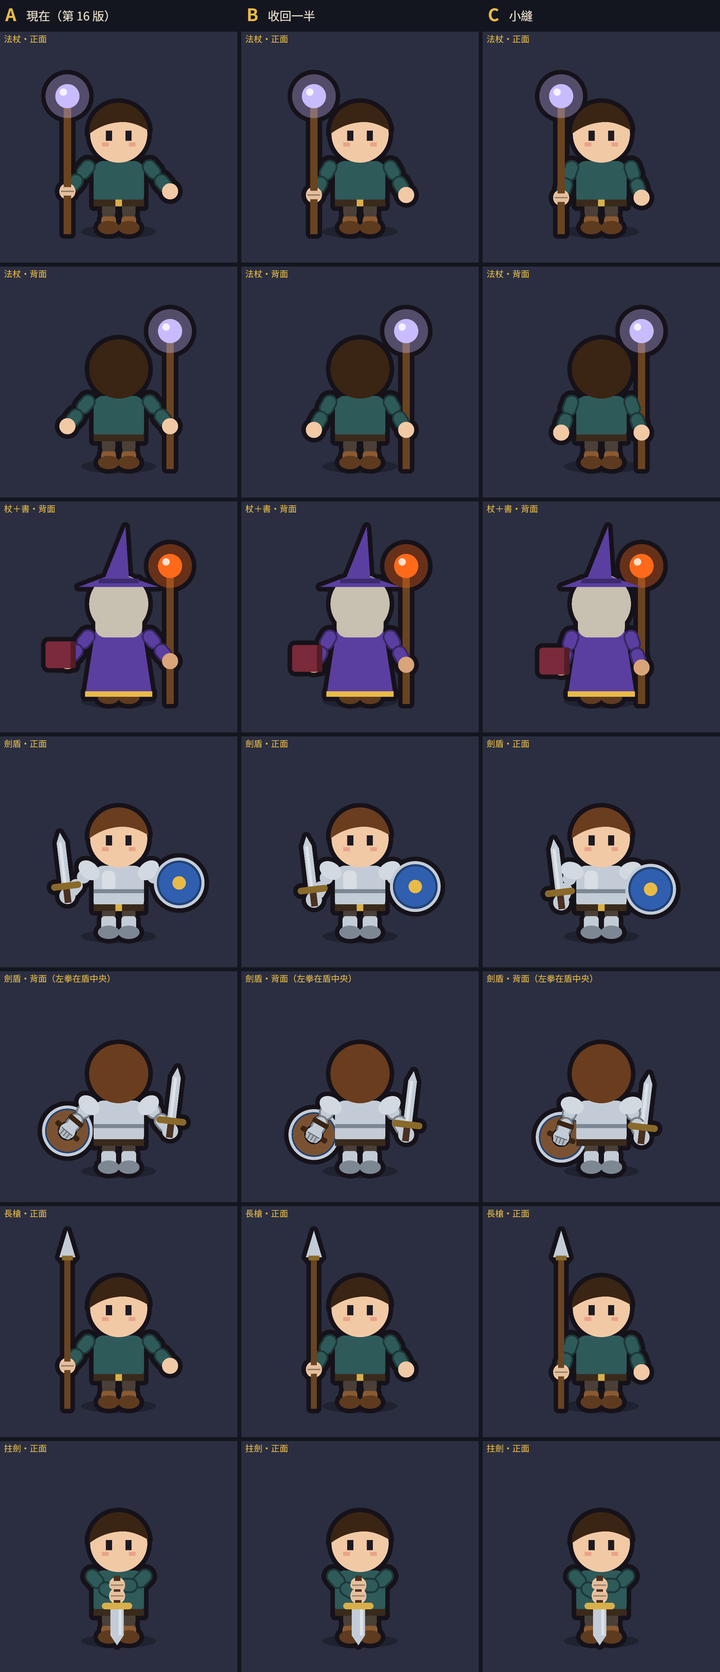
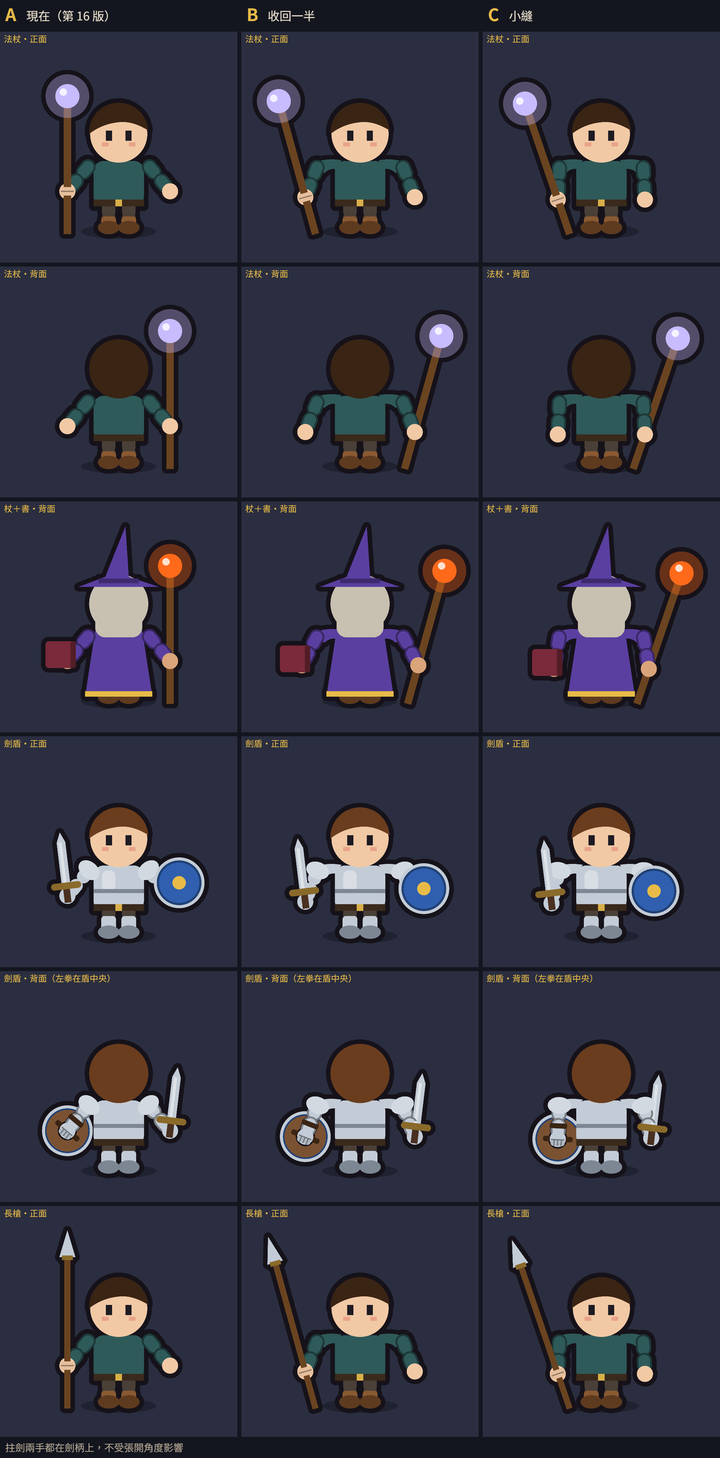
docs(art): Q v17 A review fix — compare sheet: shoulder out, gap armpit to fist
- ARM_SPREAD sets get dx/tilt/robe/hold; B/C move the shoulder out with a
  sloped shoulder cap, staff/spear tilt outward clear of the upper arm.
- Drop the plant row (identical in all columns), add a footnote instead.
- Defaults (A) unchanged: all closeups byte-identical, lockcheck 13/13.

diff --git a/docs/art/sample/qDoll.js b/docs/art/sample/qDoll.js
@@ -71,6 +71,7 @@ window.QDoll = (() => {
     const [hc] = gear.hands ? colors(gear.hands) : [look.skin, look.skin];
     const seam = (path) => { if (!SEAM || TINT || handOnly) return; ctx.strokeStyle = mix(c, "#000000", 0.38); ctx.lineWidth = 0.55; ctx.beginPath(); path(); ctx.stroke(); };
     ctx.save();
+    if (ARM_DX && !side && !handOnly && Math.abs(Math.abs(x) - SHX) < 1e-9) { const s = Math.sign(x), X = Math.abs(x); fill(ctx, sleeve, () => { ctx.moveTo(s * 5.5, -21.2); ctx.quadraticCurveTo(s * (X - 1), -22.2, s * (X + 1.9), -19.6); ctx.lineTo(s * (X - 1.9), -17.4); ctx.quadraticCurveTo(s * (X - 3.2), -18.8, s * 7.4, -18.6); ctx.closePath(); }); } /* 第 17 版：肩膀外移時，斜肩接回軀幹（縫從腋下開始） */
     rotAt(ctx, x, -20, shoulderA);
     if (!handOnly) fill(ctx, sleeve, () => rr(ctx, x - 2, -21, 4, ua + 1, 2));       // 上臂
     seam(() => ctx.roundRect(x - 2, -21, 4, ua + 1, 2));
@@ -388,17 +389,26 @@ window.QDoll = (() => {
   const UA = 5, FA = 5.5, REACH = UA + FA - 0.1;
   const rot = (a, [x, y]) => [x * Math.cos(a) - y * Math.sin(a), x * Math.sin(a) + y * Math.cos(a)];
   /* 第 15 版：OUTA＝持武器的手臂往外張開的角度（打直、不彎肘）；OH＝右肩打直張開時手的位置（正面左右對調） */
-  /* 第 17 版第 2 項（使用者：「兩隻手太開了」）：手臂往外張開的角度集中在 ARM_SPREAD 一個開關。A＝第 16 版（預設）、B＝收回一半、C＝只留一條小縫（3 倍特寫下手臂和軀幹之間 2～4px 背景色）。
-     只有比較圖（tools/arm-spread-compare.html）在載入前設 window.QDOLL_ARM_SPREAD；其他頁一律用 A，使用者選定角度後（B 批）才改預設 */
-  const ARM_SPREAD_SET = { A: 0.7, B: 0.52, C: 0.335 }; /* C：3 倍特寫量到手和腰之間 3px 背景色；角度減半（0.35）時只剩 5px、和 C 幾乎一樣，所以 B 取 A 和 C 的中間（從現在往小縫收回一半） */
-  const ARM_SPREAD = typeof window.QDOLL_ARM_SPREAD === "number" ? window.QDOLL_ARM_SPREAD : ARM_SPREAD_SET[window.QDOLL_ARM_SPREAD] ?? ARM_SPREAD_SET.A;
+  /* 第 17 版第 2 項（使用者：「兩隻手太開了」）：手臂往外張開集中在 ARM_SPREAD 一個開關：a＝手臂往外的角度、dx＝肩膀往外移多少、tilt＝法杖和長柄往外傾多少。
+     A＝第 16 版（預設）；C＝小縫：肩膀往外移、手臂打直接近直垂、和軀幹平行，從腋下到拳頭全程留 2～4px 背景色（3 倍特寫）；B＝A 和 C 的中間，縫比 C 寬。
+     肩膀外移時，肩頭用一塊同色的肩頂接回軀幹（見 arm 的 ARM_DX）；杖、柄往外傾，桿子在手臂外側、不把上臂切斷，光暈離開頭。
+     只有比較圖（tools/arm-spread-compare.html）在載入前設 window.QDOLL_ARM_SPREAD；其他頁一律用 A，使用者選定後（B 批）才改預設 */
+  const ARM_SPREAD_SET = { A: { a: 0.7, dx: 0, tilt: 0, robe: 0, hold: 0 }, B: { a: 0.375, dx: 3.93, tilt: 0.27, robe: 0.11, hold: 0 }, C: { a: 0.05, dx: 3.93, tilt: 0.33, robe: 0.11, hold: 0.18 } }; /* robe＝穿長袍時手臂多往外的角度（長袍下擺往外斜，手臂跟著長袍邊平行）；hold＝持單手武器的手多往外一點（護手不壓進軀幹） */
+  const ARM = (typeof window.QDOLL_ARM_SPREAD === "object" && window.QDOLL_ARM_SPREAD) || ARM_SPREAD_SET[window.QDOLL_ARM_SPREAD] || ARM_SPREAD_SET.A;
+  const ARM_SPREAD = ARM.a, ARM_DX = ARM.dx, ARM_TILT = ARM.tilt, SHX = 8.5 + ARM_DX;
   const OUTA = ARM_SPREAD;
   /* 第 17 版第 3 項預覽（B 批才正式改）：QDOLL_SHIELD_CENTER＝背面持盾的左拳在盾的正中央握把上；只有比較圖會設 */
   const SHIELD_CENTER = !!window.QDOLL_SHIELD_CENTER;
   function fk(x, sA, eA, len = null) { const ua = len ? len[0] : UA, fa = len ? len[1] : FA, e = [x - ua * Math.sin(sA), -20 + ua * Math.cos(sA)]; return [e[0] - fa * Math.sin(sA + eA), e[1] + fa * Math.cos(sA + eA)]; }
-  const OH = fk(8.5, -OUTA, 0), OH16 = fk(8.5, -ARM_SPREAD_SET.A, 0); /* OH16：第 16 版的手高，法杖握點照手高差補回，杖尾留在地面線（預設時差 0） */
+  const OH = fk(SHX, -OUTA, 0), OH16 = fk(8.5, -ARM_SPREAD_SET.A.a, 0); /* OH16：第 16 版的手高，法杖握點照手高差補回，杖尾留在地面線（預設時差 0） */
   /* 第 16 版（使用者：「側面的那隻手的肩膀太左上了吧」）：側面兩邊肩膀都在軀幹上緣的肩線上（x SSH，軀幹前後 ±5.4 的中間偏前），不再放在身體前緣、臉頰下面。
      SIDEA＝側面持武器的手臂往前下方伸的角度（打直）；SHD＝打直時手的位置。tailG：握點，讓柄尾最低點落在鞋底的地面線（T＝柄尾在武器座標的 y、hw＝柄半寬） */
+  const tiltG = (mg, T) => (ARM_TILT ? T - (T - mg) / Math.cos(ARM_TILT) : mg); /* 第 17 版：杖、柄往外傾時握點補回，柄尾仍在地面線（T＝柄尾在武器座標的 y） */
+  const sxOf = (gear) => (outOf(gear) ? SHX : 8.5); /* 第 17 版：張開的手臂才跟著肩膀外移 */
+  const robeX = (gear) => (ARM.robe && gear.body?.kind === "robe" ? ARM.robe : 0);
+  const holdA = (gear) => (outOf(gear) ? outOf(gear) + ARM.hold + robeX(gear) : 0); /* 持單手武器的手臂角度 */
+  const stK = (sx, k, out, gear) => { const r = armK(sx, k, out); if (k.st && robeX(gear)) r.sA += (sx > 0 ? -1 : 1) * robeX(gear); return r; }; /* 穿長袍時握杖的手臂也多往外 */
+  const stMg = (sx, k, k0, mg, gear) => (k.st && robeX(gear) ? mg + (fk(sx, k0.sA, k0.eA)[1] - k.hand[1]) / Math.cos(k.a) : mg); /* 手變高時握點補回，杖尾仍在地面線 */
   const SSH = 2, SIDEA = 0.87, SHD = fk(SSH, -SIDEA, 0);
   const tailG = (T, hw, a, hy = SHD[1]) => T - (0.85 - hy - hw * Math.sin(a)) / Math.cos(a);
   const BOOKA = OUTA; /* 第 16 版：拿書的左手臂和持武器的手一樣打直往外下方（正面、背面對稱，長袍下擺張開時也看得到空隙），書跟著手 */
@@ -488,11 +498,11 @@ window.QDoll = (() => {
     /* 第 13 版（使用者：「背後拿盾的手到底怎磨折的」）：手臂自然垂直往下、不彎手肘，前臂套著橫的臂帶，拳頭握住橫的握把（盾背中間偏下） */
     /* 第 16 版（使用者：「這個也太貼身了 而且為啥左右肩膀顏色不一樣」）：持盾的左手臂和持劍的右手一樣打直往外下方（OUTA），盾跟著手往外移、不貼背；
        臂甲改回和右肩同色（不再加深），和盾緣的區分改用前臂與手外面一圈深色輪廓 */
-    const k = { sA: OUTA, eA: 0 }, h = fk(-8.5, k.sA, k.eA), strap = "#3a2414";
+    const k = { sA: OUTA, eA: 0 }, h = fk(-SHX, k.sA, k.eA), strap = "#3a2414";
     /* 第 16 版審查：拳頭像圓環（「淺灰圓盤加一圈很粗的深色外框，握把從中間橫切過去」）→ 外框改細（0.45）；握把先畫、從拳頭兩邊穿出去；拳頭上畫一排指節（從背後看到手背和彎起來的四指） */
-    if (!TINT) { ctx.save(); rotAt(ctx, -8.5, -20, k.sA); fill(ctx, OUT, () => rr(ctx, -8.5 - 2.45, -15.9, 4.9, FA + 0.8, 2.4)); ctx.restore(); fill(ctx, OUT, () => ctx.arc(h[0], h[1], 2.85, 0, TAU)); }
+    if (!TINT) { ctx.save(); rotAt(ctx, -SHX, -20, k.sA); fill(ctx, OUT, () => rr(ctx, -SHX - 2.45, -15.9, 4.9, FA + 0.8, 2.4)); ctx.restore(); fill(ctx, OUT, () => ctx.arc(h[0], h[1], 2.85, 0, TAU)); }
     if (!TINT) { ctx.save(); ctx.translate(h[0], h[1]); ctx.rotate(k.sA); fill(ctx, strap, () => rr(ctx, -4.4, -0.8, 8.8, 1.6, 0.6)); ctx.restore(); } // 握把：從拳頭兩邊穿出去（拳頭畫在上面）
-    arm(ctx, unit, -8.5, k.sA, k.eA, 0, rec("off"));
+    arm(ctx, unit, -SHX, k.sA, k.eA, 0, rec("off"));
     if (!TINT) {
       const hc = unit.gear.hands && unit.gear.hands.kind !== "bracers" ? colors(unit.gear.hands)[0] : unit.look.skin;
       ctx.save(); ctx.translate(h[0], h[1]); ctx.rotate(k.sA);
@@ -501,7 +511,7 @@ window.QDoll = (() => {
       ctx.restore();
     }
     TINT = null;
-    { const m = fk(-8.5, k.sA, 0, [UA + 1.6, 0]); ctx.save(); ctx.translate(m[0], m[1]); ctx.rotate(k.sA); fill(ctx, strap, () => rr(ctx, -2.6, -0.75, 5.2, 1.5, 0.5)); ctx.restore(); } // 臂帶：橫套在前臂上（跟著前臂的角度）
+    { const m = fk(-SHX, k.sA, 0, [UA + 1.6, 0]); ctx.save(); ctx.translate(m[0], m[1]); ctx.rotate(k.sA); fill(ctx, strap, () => rr(ctx, -2.6, -0.75, 5.2, 1.5, 0.5)); ctx.restore(); } // 臂帶：橫套在前臂上（跟著前臂的角度）
   }
   const isShield = (it) => !!it && String(it.kind).startsWith("shield");
 
@@ -624,8 +634,8 @@ window.QDoll = (() => {
     polearm: { zh: "右手單手拄地、手臂打直往外、柄直立，左手垂下：正面柄在畫面左、背面在畫面右，側面在臉的前方外側",
       /* 第 14 版（美術 PM 決定）：四面同一個姿勢：右手單手拄地、柄直立，左手垂下。正面柄在畫面左、背面在畫面右；柄尾落在鞋底的地面線（y ≈ +0.8）。
          grip＝手握在武器座標哪一點（側面手在胸前 y −14：長槍 −3.8、鐮 gripS −5.8；正面、背面手在 y −12.8，手肘不必彎太多：長槍 −2.6、鐮 −4.6）；flipS＝正面的鐮刃朝畫面左（朝外，不蓋到頭） */
-      front: { hand: [-OH[0], OH[1]], a: 0, grip: -2.6 + OH[1] + 12.8, gripS: -4.6 + OH[1] + 12.8, flipS: true, st: true },  /* 第 15 版：手臂打直往外下方伸（手比第 14 版低，握點跟著往上同樣多，柄尾仍在地面線） */
-      back: { hand: [OH[0], OH[1]], a: 0, grip: -2.6 + OH[1] + 12.8, gripS: -4.6 + OH[1] + 12.8, st: true },                      // 背面（第 15 版）：柄在身體外側、拳頭蓋住握的那段，柄從拳頭上下穿出；第 14 版：柄在手臂後面（身體前方），上臂、袖子蓋住拳頭以上的柄，槍尖、鐮刃從肩膀上方露出，柄尾在拳頭下方
+      front: { hand: [-OH[0], OH[1]], a: -ARM_TILT, grip: tiltG(-2.6 + OH[1] + 12.8, 11), gripS: tiltG(-4.6 + OH[1] + 12.8, 9), flipS: true, st: true },  /* 第 15 版：手臂打直往外下方伸（手比第 14 版低，握點跟著往上同樣多，柄尾仍在地面線） */
+      back: { hand: [OH[0], OH[1]], a: ARM_TILT, grip: tiltG(-2.6 + OH[1] + 12.8, 11), gripS: tiltG(-4.6 + OH[1] + 12.8, 9), st: true },                      // 背面（第 15 版）：柄在身體外側、拳頭蓋住握的那段，柄從拳頭上下穿出；第 14 版：柄在手臂後面（身體前方），上臂、袖子蓋住拳頭以上的柄，槍尖、鐮刃從肩膀上方露出，柄尾在拳頭下方
       side: { hand: SHD, a: 0.18, grip: tailG(11, 0.9, 0.18), gripS: tailG(9, 1, 0.18), animOg: [0, -8], st: true },  /* 第 16 版：肩膀移到肩線（SSH），手臂打直往前下方（SIDEA），柄多往前傾一點（0.06 → 0.18）不碰鼻尖；握點照手高重算，柄尾仍在地面線。朝東、朝西同一組（兩邊肩膀同一個位置） */  /* 第 15 版：近側右手臂打直往前下方伸（不彎肘），手低 2.15，握點跟著往上，柄尾仍在地面線 */
       /* 第 16 版：朝西不另外給 sideW（肩膀和朝東同一個位置）。第 15 版：朝西右肩在遠側（x 3），手臂一樣打直，手和朝東同高 */  /* 第 13 版：柄拄地、單手握（使用者：「直立拿很怪」）：近側右手在胸前握柄，柄尾點在前腳前的地上，另一隻手垂著；grip＝手握在武器座標哪一點（長槍 −3、鐮 gripS −5.5），animOg＝6M 片段仍兩手握 */ // 第 7 版：手往前移、槍桿前傾，槍桿在鼻尖前方外側（審查：「槍桿壓在臉的前緣，把鼻子蓋掉」）
       atk: { from: { hand: [2, -14], a: 1.25 }, to: { hand: [6, -17.5], a: Math.PI / 2 + 0.03 }, og: [0, -6] },   // 雙手刺（第 7 版）：主手是後手、副手是前手（在主手前 6），兩手都在槍桿上、都在身體前方
@@ -649,8 +659,8 @@ window.QDoll = (() => {
       side: { hand: [6, -11], a: 0.9, og: [0, -5] },                                  // 第 8 版：托槍手往後一點，待機時弩口往下點也還搆得到（審查：「弩中段只看到一隻手」）
       atk: { from: { hand: [6, -11], a: 0.9 }, to: { hand: [11, -20], a: Math.PI / 2, farX: 6.5, elbow: "down" }, og: [0, -5] } },  // 第 8 版瞄準：槍托頂在肩窩（槍托尾在 x 4.5）、臉頰貼在槍托上緣，扳機手手肘朝下；托槍那側的肩膀轉到前面（側身持槍）
     staff: { zh: "單手握杖：手臂打直往外下方伸、杖身穿過拳頭；正面杖在畫面左、背面在畫面右；側面杖往前傾",
-      front: { hand: [-OH[0], OH[1]], a: 0, grip: -3.72 + (OH[1] - OH16[1]), st: true },  /* 第 15 版審查：手抬高後杖跟著往上，杖尾懸空 38px；握點往下（grip），杖尾落在鞋底的地面線 */  /* 第 15 版：手臂打直往外下方伸（OUTA），杖直立在身體外側 */  /* 第 13 版：手臂自然垂直，拳頭接著袖口，四指從杖身前面繞過去（wrap） */
-      back: { hand: [OH[0], OH[1]], a: 0, grip: -3.72 + (OH[1] - OH16[1]), st: true },  /* 第 15 版：同正面（鏡像）：手臂打直往外下方伸，和身體之間有空隙；杖直立在身體外側，從拳頭上下穿出 */  /* 第 14 版：手垂在身側稍往內，杖和手臂同一條線（拳頭 → 肩膀）：從背後看，手臂蓋住拳頭以上的杖身，杖頭從肩膀外上方露出 */                                           // 第 7 版：背面杖在畫面右（右手在身側），手和杖都看得到（審查：「杖畫在背上、握杖的手卻被擋住」）
+      front: { hand: [-OH[0], OH[1]], a: -ARM_TILT, grip: tiltG(-3.72 + (OH[1] - OH16[1]), 9), st: true },  /* 第 15 版審查：手抬高後杖跟著往上，杖尾懸空 38px；握點往下（grip），杖尾落在鞋底的地面線 */  /* 第 15 版：手臂打直往外下方伸（OUTA），杖直立在身體外側 */  /* 第 13 版：手臂自然垂直，拳頭接著袖口，四指從杖身前面繞過去（wrap） */
+      back: { hand: [OH[0], OH[1]], a: ARM_TILT, grip: tiltG(-3.72 + (OH[1] - OH16[1]), 9), st: true },  /* 第 15 版：同正面（鏡像）：手臂打直往外下方伸，和身體之間有空隙；杖直立在身體外側，從拳頭上下穿出 */  /* 第 14 版：手垂在身側稍往內，杖和手臂同一條線（拳頭 → 肩膀）：從背後看，手臂蓋住拳頭以上的杖身，杖頭從肩膀外上方露出 */                                           // 第 7 版：背面杖在畫面右（右手在身側），手和杖都看得到（審查：「杖畫在背上、握杖的手卻被擋住」）
       side: { hand: SHD, a: 0.36, aW: 0.2, grip: tailG(9, 1.1, 0.36), gripW: tailG(9, 1.1, 0.2), st: true },  /* 第 16 版：肩膀移到肩線，手臂打直往前下方；朝東杖的位置幾乎不變（手沿杖身往上滑），朝西杖尾仍在近側鞋子前面、光暈不碰頭 */  /* 第 15 版審查第二輪：杖多往前傾（0.2 → 0.36），杖頭的光暈離開帽簷和頭髮（審查：「r10 朝東光暈壓在帽簷」「i10 中段光暈壓到頭髮」）；朝西遠側的手往前（hw）、杖少傾一點（aW 0.2），杖尾在近側鞋子前面、不重疊，gripW＝朝西的握點（審查：「r08 朝西杖尾畫在近側鞋尖上」） */  /* 第 15 版審查：杖尾落在地面線（grip；出招片段只讀 mg，不受影響）；hw＝朝西右肩在遠側（x 3），手打直時和朝東同高 */  /* 第 15 版：手臂打直（原本差一點點伸直） */
       sideW: { hand: fk(SSH, -1.0, 0), a: 0.24, mg: tailG(9, 1.1, 0.24, fk(SSH, -1.0, 0)[1]), needOff: true, st: true } },  /* 第 16 版：手臂從肩線打直往前下方（多往前一點，拳頭在書的前方），杖多傾一點，光暈不壓帽簷 */  /* 第 15 版：遠側右手臂打直往前下方伸，拳頭在書的前方（握點跟著往下，杖的位置大致不變） */                // 第 9 版：朝西拿書時，遠側右手握在杖的高一點（胸前），書在近側、蓋在杖上面，握杖的手露在書上方（審查：「杖壓在書上面、杖上沒有手」）                                          // 第 8 版：杖少往前傾一點，杖頭不伸進隔壁格（審查：「書那列朝東、朝西的杖頭互相重疊」）
   };
@@ -863,15 +873,15 @@ window.QDoll = (() => {
           /* 第 14 版：背面握杖、拄地長柄：杖稍微在身體前面、比手臂離鏡頭遠。杖在身體之前畫（被身體、長袍擋住的那段不出現），握杖的手臂在身體之後畫、蓋在杖上：
              上臂和袖子蓋住拳頭以上的杖身，拳頭蓋住握的那段（從背後看到的是手背），只露出肩膀外的杖頭和身體（長袍下擺）以下的杖尾
              （審查：「正面和背面都是杖身蓋在袖子上」；美術 PM：「r10 背面要照杖在身體前面畫，不要讓杖尾壓在下擺上面」） */
-          const k0 = armK(8.5, kb, 1), h = fk(8.5, k0.sA, k0.eA), mgB = (key.kind === "scythe" && kb.gripS != null ? kb.gripS : kb.grip) ?? 0;
+          const k0 = stK(SHX, kb, 1, gear), h = fk(SHX, k0.sA, k0.eA), mgB = stMg(SHX, kb, k0, (key.kind === "scythe" && kb.gripS != null ? kb.gripS : kb.grip) ?? 0, gear);
           mainWeapon(ctx, gear.main_hand, h, kb.a, "back", false, null, mgB); mark("weapon");
         }
-        if (gear.main_hand && !(key && (key.c === "staff" || key.c === "bow" || key.c === "polearm"))) { ctx.save(); ctx.translate(0, pz("armR")); mainWeapon(ctx, gear.main_hand, fk(8.5, -outOf(gear), 0), -holdOf(gear.main_hand, "front"), "back"); ctx.restore(); mark("weapon"); }
+        if (gear.main_hand && !(key && (key.c === "staff" || key.c === "bow" || key.c === "polearm"))) { ctx.save(); ctx.translate(0, pz("armR")); mainWeapon(ctx, gear.main_hand, fk(sxOf(gear), -holdA(gear), 0), -holdOf(gear.main_hand, "front"), "back"); ctx.restore(); mark("weapon"); }
         // 單手武器（劍、刀、匕首、鎚……）：正面拿在身側，背面也在身側（畫面右），身體之後畫、手和武器都看得到，見下面
       }
       mark("arms");
       if (isShield(gear.off_hand)) {
-        { const sh = fk(-8.5, OUTA, 0), oh = gear.off_hand; if (SHIELD_CENTER) shieldBack(ctx, oh, sh[0] + 1, sh[1] + (oh.kind === "shield_round" ? 11.8 : oh.form === "tower" ? 11.5 : 11)); else shieldBack(ctx, oh, sh[0] - 2.7, sh[1] + 9.63); } mark("shield"); /* 第 16 版：盾跟著打直往外的左手（盾心在拳頭外側一點），不貼背 */ // 第 9 版：盾在身體後面；持盾的手臂在身體之後畫（見 shieldArmBack）
+        { const sh = fk(-SHX, OUTA, 0), oh = gear.off_hand; if (SHIELD_CENTER) shieldBack(ctx, oh, sh[0] + 1, sh[1] + (oh.kind === "shield_round" ? 11.8 : oh.form === "tower" ? 11.5 : 11)); else shieldBack(ctx, oh, sh[0] - 2.7, sh[1] + 9.63); } mark("shield"); /* 第 16 版：盾跟著打直往外的左手（盾心在拳頭外側一點），不貼背 */ // 第 9 版：盾在身體後面；持盾的手臂在身體之後畫（見 shieldArmBack）
       }
     }
     // ---- 側面（第 7 版）：兩隻手的位置、武器在哪隻手、各畫在哪一層（sidePlan）----
@@ -916,15 +926,15 @@ window.QDoll = (() => {
       if (key && key.c === "bow") bowStill(ctx, unit, "back"); // 第 9 版：四面同一個持弓待機
       else if (key && (key.c === "staff" || key.c === "polearm")) {
         /* 第 14 版：杖（長柄）已在身體之前畫；這裡只畫握杖的手臂，蓋在杖上（見身體之前那段） */
-        const k0 = armK(8.5, kb, 1);
-        arm(ctx, unit, 8.5, k0.sA, k0.eA, 0, rec("main"));
+        const k0 = stK(SHX, kb, 1, gear);
+        arm(ctx, unit, SHX, k0.sA, k0.eA, 0, rec("main"));
       } else if (!(kb && kb.og)) {
         // 空手或單手武器：右手垂在身側（畫面右），單手武器握在手裡、刃往外斜（正面的鏡像位置；審查：「背面垂在身側的手都消失了」）
         const rm = rec("main");
         ctx.save(); ctx.translate(0, pz("armR"));
         const guard = ["sword", "arcane_blade", "saber"].includes(qWeapon(gear.main_hand)?.kind); /* 第 11 版：劍的十字護手整條畫出來，以劍身為中心左右等長（審查：「背面護手左 14px、右 48px」） */
-        const oB = outOf(gear); /* 第 15 版：持武器的右手臂打直往外下方伸（肩角 −OUTA），武器的世界角度不變（手的座標系裡補回 OUTA） */
-        arm(ctx, unit, 8.5, -oB, 0, 0, gear.main_hand ? (hand, c) => { c.save(); c.beginPath(); c.arc(hand[0], hand[1], 2.6, 0, TAU); if (guard) { c.save(); c.translate(hand[0], hand[1]); c.rotate(-holdOf(gear.main_hand, "front") + oB); c.rect(-4.8, -4.6, 9.6, 3.2); c.restore(); } c.clip(); mainWeapon(ctx, gear.main_hand, hand, -holdOf(gear.main_hand, "front") + oB, "back"); c.restore(); if (rm) rm(hand, c); } : rm); // 握柄從拳頭上穿過
+        const oB = holdA(gear); /* 第 15 版：持武器的右手臂打直往外下方伸（肩角 −OUTA），武器的世界角度不變（手的座標系裡補回 OUTA） */
+        arm(ctx, unit, sxOf(gear), -oB, 0, 0, gear.main_hand ? (hand, c) => { c.save(); c.beginPath(); c.arc(hand[0], hand[1], 2.6, 0, TAU); if (guard) { c.save(); c.translate(hand[0], hand[1]); c.rotate(-holdOf(gear.main_hand, "front") + oB); c.rect(-4.8, -4.6, 9.6, 3.2); c.restore(); } c.clip(); mainWeapon(ctx, gear.main_hand, hand, -holdOf(gear.main_hand, "front") + oB, "back"); c.restore(); if (rm) rm(hand, c); } : rm); // 握柄從拳頭上穿過
         ctx.restore();
       }
       // 左手：空手垂在身側；成對武器的第二把在左手（畫面左），刃往外斜
@@ -932,14 +942,14 @@ window.QDoll = (() => {
         /* 第 16 版（美術 PM：背面的手也要伸出來、不貼身，四面一致）：拿書的左手和正面一樣從肩膀打直往外下方（BOOKA），在身體外側拿著書；
            從背後看到書的封底（素面，靠身體那側一條深色書背），書蓋住手的大半，只在書的下緣露出一點拳頭邊緣（使用者早期：「拳頭應該看不到或者露一點邊緣而已」） */
         ctx.save(); ctx.translate(0, pz("armL")); TINT = POSE && POSE.tintOff ? POSE.tintOff : null;
-        arm(ctx, unit, -8.5, BOOKA, 0, 0, rec("off"));
+        arm(ctx, unit, -SHX, BOOKA + robeX(gear), 0, 0, rec("off"));
         TINT = null;
-        const bh = fk(-8.5, BOOKA, 0), [bc, bd] = colors(gear.off_hand);
+        const bh = fk(-SHX, BOOKA + robeX(gear), 0), [bc, bd] = colors(gear.off_hand);
         ctx.translate(bh[0] - 2, bh[1] + 0.1); /* 審查：書往外 2，手臂、書和長袍之間看得到空隙 */
         fill(ctx, bc, () => rr(ctx, -4.5, -6, 9, 8, 1)); fill(ctx, bd, () => rr(ctx, 2.9, -6, 1.6, 8, 0.6));
         ctx.restore(); mark("shield");
       }
-      if (!gear.off_hand && !(kb && kb.og) && key?.c !== "bow") arm(ctx, unit, -8.5, outOf(gear), 0, 0, /* 第 16 版：空著的左手也打直往外下方（成對匕首原本就張開） */ paired ? (hand, c) => { offDagger(ctx, gear.main_hand, hand, holdOf(gear.main_hand, "front") - OUTA); const r = rec("off"); if (r) r(hand, c); } : rec("off"));
+      if (!gear.off_hand && !(kb && kb.og) && key?.c !== "bow") arm(ctx, unit, -sxOf(gear), outOf(gear), 0, 0, /* 第 16 版：空著的左手也打直往外下方（成對匕首原本就張開） */ paired ? (hand, c) => { offDagger(ctx, gear.main_hand, hand, holdOf(gear.main_hand, "front") - OUTA); const r = rec("off"); if (r) r(hand, c); } : rec("off"));
     }
     if (B && isShield(gear.off_hand)) shieldArmBack(ctx, unit);
     if (S) { cloakClasp(ctx, gear.cloak, true); if (!W && isShield(gear.off_hand)) { if (SP.far.shield) sideArm(SP.far, true); shieldSide(ctx, gear.off_hand); } } // 第 8 版：持盾的遠側手在盾後面
@@ -953,9 +963,9 @@ window.QDoll = (() => {
     const twoF = F && key && (key.K.front.og || key.K.front.wh === "off");
     if (F && !twoF) {
       const pairedF = qWeapon(gear.main_hand)?.kind === "paired"; // 成對武器：第二把匕首在左手（畫面右），刃朝外上
-      const freeF = gear.off_hand ? (isShield(gear.off_hand) ? OUTA : BOOKA) : outOf(gear); /* 第 16 版審查：持盾的左手也打直往外下方，和背面同一個姿勢 */ /* 第 16 版（使用者：「另一隻手不要貼在身上往外擺」）：空著的左手和持武器的手一樣打直往外下方；拿書張開一點；持盾照舊 */
-      ctx.save(); ctx.translate(0, pz("armR")); arm(ctx, unit, 8.5, -freeF, 0, 0, pairedF ? (hand, c) => { offDagger(ctx, gear.main_hand, hand, -holdOf(gear.main_hand, "front") + OUTA); const r = rec("off"); if (r) r(hand, c); } : rec("off"));
-      { const bh = fk(8.5, -freeF, 0); ctx.translate(0, bh[1] + 9.6); /* 盾、書跟著手：盾心在拳頭外側 2.7、上方 3.9（和背面一樣），書往外 2，和身體之間露出空隙 */
+      const freeF = gear.off_hand ? (isShield(gear.off_hand) ? OUTA : BOOKA + robeX(gear)) : outOf(gear); /* 第 16 版審查：持盾的左手也打直往外下方，和背面同一個姿勢 */ /* 第 16 版（使用者：「另一隻手不要貼在身上往外擺」）：空著的左手和持武器的手一樣打直往外下方；拿書張開一點；持盾照舊 */
+      ctx.save(); ctx.translate(0, pz("armR")); arm(ctx, unit, freeF ? SHX : 8.5, -freeF, 0, 0, pairedF ? (hand, c) => { offDagger(ctx, gear.main_hand, hand, -holdOf(gear.main_hand, "front") + OUTA); const r = rec("off"); if (r) r(hand, c); } : rec("off"));
+      { const bh = fk(freeF ? SHX : 8.5, -freeF, 0); ctx.translate(0, bh[1] + 9.6); /* 盾、書跟著手：盾心在拳頭外側 2.7、上方 3.9（和背面一樣），書往外 2，和身體之間露出空隙 */
         if (isShield(gear.off_hand)) { if (gear.off_hand.kind === "shield_kite" && gear.off_hand.form !== "tower") ctx.translate(0, 3.5); /* 審查：鳶盾下半收尖，手從左下緣露出來 → 鳶盾往下 3.5，拳頭落在盾的方形上半、藏在盾後 */ shieldFront(ctx, gear.off_hand, bh[0] + 2.7); } else if (gear.off_hand) PD.drawWeapon(ctx, gear.off_hand, bh[0] + 2, true); }
       ctx.restore();
     }
@@ -984,18 +994,18 @@ window.QDoll = (() => {
     if (F && key && key.c === "bow") bowStill(ctx, unit, "front"); // 第 9 版：四面同一個持弓待機
     else if (F && key) {
       // 第 8 版：兩隻手臂先畫，武器畫在手上面（使用者：「法仗塗層要在最上面」）；弓是左手持弓、右手搭在弦上
-      const k = key.K.front, who = k.wh ?? "main", sx = who === "main" ? -8.5 : 8.5, k0 = armK(sx, k, who === "main" ? -1 : 1), h = fk(sx, k0.sA, k0.eA), ol = ogLocal(k.og);
+      const k = key.K.front, who = k.wh ?? "main", sx = (who === "main" ? -1 : 1) * (k.st ? SHX : 8.5), k0 = stK(sx, k, who === "main" ? -1 : 1, gear), h = fk(sx, k0.sA, k0.eA), ol = ogLocal(k.og);
       if (ol) { const o = rot(k.a, ol), io = ik(-sx, [h[0] + o[0], h[1] + o[1]], sx < 0 ? 1 : -1); arm(ctx, unit, -sx, io.sA, io.eA, 0, rec(who === "main" ? "off" : "main")); }
       arm(ctx, unit, sx, k0.sA, k0.eA, 0, rec(who));
       if (who === "off" && !ol) arm(ctx, unit, -8.5, 0, 0, 0, rec("main"));
-      const mgF = (key.kind === "scythe" && k.gripS != null ? k.gripS : k.grip) ?? 0, MF = k.flipS && key.kind === "scythe" ? [-1, 0, 0, 1] : null; /* 第 14 版：拄地長柄的握點、正面鐮刃朝外 */
+      const mgF = stMg(sx, k, k0, (key.kind === "scythe" && k.gripS != null ? k.gripS : k.grip) ?? 0, gear), MF = k.flipS && key.kind === "scythe" ? [-1, 0, 0, 1] : null; /* 第 14 版：拄地長柄的握點、正面鐮刃朝外 */
       BOWP = { nock: true }; mainWeapon(ctx, gear.main_hand, h, k.a, "front", k.short || false, ol, mgF, MF); BOWP = null;
       if (key.c === "staff" || key.c === "polearm" || key.c.startsWith("greatsword")) wrap(ctx, unit, h, k.a); /* 第 13 版：杖身穿過拳頭；第 14 版：拄地長柄、雙手劍也是 */
       if (ol && key.c.startsWith("greatsword")) { const o = rot(k.a, ol); wrap(ctx, unit, [h[0] + o[0], h[1] + o[1]], k.a); } /* 第 14 版：拄劍的上手也握住劍柄 */
     } else if (F) {
       const rm = rec("main");
-      const oF = outOf(gear); /* 第 15 版：正面同背面（鏡像）：持武器的手臂打直往外下方伸 */
-      ctx.save(); ctx.translate(0, pz("armL")); arm(ctx, unit, -8.5, oF, 0, 0, (hand, c) => { mainWeapon(ctx, gear.main_hand, hand, holdOf(gear.main_hand, "front") - oF, "front"); if (rm) rm(hand, c); }); ctx.restore();
+      const oF = holdA(gear); /* 第 15 版：正面同背面（鏡像）：持武器的手臂打直往外下方伸 */
+      ctx.save(); ctx.translate(0, pz("armL")); arm(ctx, unit, -sxOf(gear), oF, 0, 0, (hand, c) => { mainWeapon(ctx, gear.main_hand, hand, holdOf(gear.main_hand, "front") - oF, "front"); if (rm) rm(hand, c); }); ctx.restore();
     } else if (S && SP.split) {
       if (SP.layer === "front") sideWeapon();
       if (SP.late || SP.nearLate) sideArm(SP.near, false);

diff --git a/docs/art/sample/tools/arm-spread-compare.html b/docs/art/sample/tools/arm-spread-compare.html
@@ -5,20 +5,20 @@
 <!-- 美術 PM 第 17 版第 2 項（使用者：「兩隻手太開了」）：只做比較圖，不全面套用。
      qDoll.js 載入三次，每次先設 window.QDOLL_ARM_SPREAD（A 現在、B 收回一半、C 小縫），得到三份 QDoll；劍盾背面三欄都設 QDOLL_SHIELD_CENTER（第 3 項預覽：左拳在盾的正中央）。
      每格和 closeups.html 同一套參數（K 3.4、格 240×224、放大 3 倍），A 欄就是現在的特寫。
-     用法：無頭 Chrome --dump-dom 開這頁，再用 closeups_save.py 存成 docs/art/arm-spread-compare.png。?c=數字 只用來試 C 欄的角度 -->
+     用法：無頭 Chrome --dump-dom 開這頁，再用 closeups_save.py 存成 docs/art/arm-spread-compare.png。?c={"a":…,"dx":…,"tilt":…} 只用來試 C 欄的參數。第 17 版審查：拄劍那一列三欄相同，改成圖底下一行說明 -->
 <div id="out"></div>
 <script src="../current.js"></script><script src="../raceArt.js"></script><script src="../paperdoll.js"></script><script src="../fx.js"></script><script src="../realms.js"></script>
 <script>window.QDOLL_ARM_SPREAD="A";window.QDOLL_SHIELD_CENTER=true;</script><script src="../qDoll.js"></script><script>window.QA=window.QDoll;</script>
 <script>window.QDOLL_ARM_SPREAD="B";</script><script src="../qDoll.js"></script><script>window.QB=window.QDoll;</script>
-<script>{const c=new URLSearchParams(location.search).get("c");window.QDOLL_ARM_SPREAD=c?Number(c):"C";}</script><script src="../qDoll.js"></script><script>window.QC=window.QDoll;</script>
+<script>{const c=new URLSearchParams(location.search).get("c");window.QDOLL_ARM_SPREAD=c?JSON.parse(c):"C";}</script><script src="../qDoll.js"></script><script>window.QC=window.QDoll;</script>
 <script>window.QDOLL_ARM_SPREAD=undefined;window.QDOLL_SHIELD_CENTER=undefined;</script><script src="../qDoll.js"></script>
 <script src="../storyDoll.js"></script><script src="../anim.js"></script>
 <script>
 const TPL=PaperDoll.TEMPLATES,U=(k)=>Anim.unit(k),Z=3,K=3.4,CW=240,CH=224,FY=202,FONT="'Noto Sans TC','Microsoft JhengHei',sans-serif";
 const COLS=[["A","現在（第 16 版）",QA],["B","收回一半",QB],["C","小縫",QC]];
 const SS={look:TPL.hero_fighter.look,gear:{...TPL.hero_fighter.gear,cloak:undefined}};
-const ROWS=[["法杖・正面",U("staff"),"front"],["法杖・背面",U("staff"),"back"],["杖＋書・背面",TPL.hero_mage,"back"],["劍盾・正面",SS,"front"],["劍盾・背面（左拳在盾中央）",SS,"back"],["長槍・正面",U("spear"),"front"],["拄劍・正面",U("greatsword"),"front"]];
-const GAP=12,HEAD=96,TH=28,W=COLS.length*CW*Z+(COLS.length-1)*GAP,H=HEAD+ROWS.length*(CH*Z+TH)+(ROWS.length-1)*GAP;
+const ROWS=[["法杖・正面",U("staff"),"front"],["法杖・背面",U("staff"),"back"],["杖＋書・背面",TPL.hero_mage,"back"],["劍盾・正面",SS,"front"],["劍盾・背面（左拳在盾中央）",SS,"back"],["長槍・正面",U("spear"),"front"]];
+const GAP=12,HEAD=96,TH=28,FOOTN=64,W=COLS.length*CW*Z+(COLS.length-1)*GAP,H=HEAD+ROWS.length*(CH*Z+TH)+(ROWS.length-1)*GAP+FOOTN;
 const cv=document.createElement("canvas");cv.width=W;cv.height=H;const x=cv.getContext("2d");
 x.fillStyle="#14161f";x.fillRect(0,0,W,H);
 COLS.forEach(([L,t],j)=>{const x0=j*(CW*Z+GAP);x.fillStyle="#e8bb48";x.font=`bold 52px ${FONT}`;x.fillText(L,x0+16,64);x.fillStyle="#eadfcc";x.font=`36px ${FONT}`;x.fillText(t,x0+80,62);});
@@ -28,6 +28,7 @@ ROWS.forEach(([zh,u,v],r)=>{const y0=HEAD+r*(CH*Z+TH+GAP);
     g.fillStyle="#2a2e40";g.fillRect(0,0,c.width,c.height);g.fillStyle="#e8bb48";g.font=`26px ${FONT}`;g.fillText(zh,12,32);
     const cx=CW/2*Z,fy=FY*Z;g.beginPath();g.ellipse(cx,fy,38*Z,7*Z,0,0,Math.PI*2);g.fillStyle="rgba(0,0,0,0.25)";g.fill();
     Q.stamp(g,u,v,cx,fy,K*Z,false,{});x.drawImage(c,j*(CW*Z+GAP),y0);});});
+x.fillStyle="#b8ab96";x.font=`30px ${FONT}`;x.fillText("拄劍兩手都在劍柄上，不受張開角度影響",16,H-20);
 const pre=document.createElement("pre");pre.dataset.file="arm-spread-compare";pre.textContent=cv.toDataURL("image/png");document.getElementById("out").appendChild(pre);
 const done=document.createElement("p");done.id="done";done.textContent="1";document.getElementById("out").appendChild(done);
 </script></body></html>

diff --git a/docs/art/關鍵姿勢檢查紀錄.md b/docs/art/關鍵姿勢檢查紀錄.md
@@ -30,10 +30,21 @@ A 批只做兩件事：
 
 ### 第 2 項：手臂張開的開關（只給比較圖用）
 
-- `qDoll.js` 新增 `ARM_SPREAD_SET = { A: 0.7, B: 0.52, C: 0.335 }` 和 `ARM_SPREAD`。`OUTA`（持武器的手、空手、拿書、持盾的手往外張開的角度）改成等於 `ARM_SPREAD`。
-  - 只有在 `qDoll.js` 載入前設了 `window.QDOLL_ARM_SPREAD`，才會用 B 或 C；其他頁都沒設，一律是 A（0.7，第 16 版）。
-- 法杖正面、背面的握點改成照手高差補回（`grip −3.72 + (OH[1] − OH16[1])`），讓 B、C 的杖尾也落在地面線。用 A 時差值是 0，數值完全不變。
-- 第 3 項預覽：`window.QDOLL_SHIELD_CENTER` 設了才會讓背面的盾心對準左拳（圓盾盾心＝拳頭位置）；沒設時照第 16 版。只有比較圖會設。
+- `qDoll.js` 新增一個集中的開關 `ARM_SPREAD_SET`，每一組有五個參數：
+  - `a`：手臂往外的角度；
+  - `dx`：肩膀往外移多少；
+  - `tilt`：法杖、長柄往外傾多少；
+  - `robe`：穿長袍時手臂多往外的角度（跟著長袍邊平行）；
+  - `hold`：持單手武器的手多往外一點。
+- 三組的值：
+  - A＝第 16 版：`a 0.7`，其他都是 0；
+  - B：`a 0.375, dx 3.93, tilt 0.27, robe 0.11, hold 0`；
+  - C：`a 0.05, dx 3.93, tilt 0.33, robe 0.11, hold 0.18`。
+- 只有在 `qDoll.js` 載入前設了 `window.QDOLL_ARM_SPREAD`，才會用 B 或 C；其他頁都沒設，一律是 A。A 的每個算式都退回第 16 版的數值，所以其他特寫逐位元組不變。
+- 肩膀外移（`dx`）時，在 `arm()` 裡畫一塊同色的斜肩，把肩頭接回軀幹，所以縫從腋下才開始。只有往外張的手臂會跟著外移；拳套、兩手握的武器照舊。
+- 杖、柄往外傾（`tilt`）時，握點照傾角補回，杖尾仍在地面線；桿子在拳頭以上往外離開手臂，光暈也離開頭。
+- 法杖正面、背面的握點照手高差補回（`OH16`）。用 A 時差值是 0。
+- 第 3 項預覽：`window.QDOLL_SHIELD_CENTER` 設了，背面的盾心才會對準左拳；沒設時照第 16 版。只有比較圖會設。
 - 比較圖產生頁 `sample/tools/arm-spread-compare.html`：
   - `qDoll.js` 載入三次，得到 A、B、C 三份。
   - 每格先畫在和 `closeups.html` 同大小的畫布上（K 3.4、放大 3 倍、720×700），再貼到大圖上。
@@ -48,7 +59,7 @@ A 批只做兩件事：
   - `key-poses.png` 換檔：少一列，`g1` 換圖、換標題；同視窗大小重拍，裁掉底下的純背景。
   - `style-compare-3.png` 換檔：只有說明文字改了。
   - `parts-4dir.png`、`idle-weapons.png`（`?t=0`）、`appearance-vary.png`、`dragon-compare.png` 重拍後和第 16 版相同，沒換檔。
-- **新增**：`docs/art/arm-spread-compare.png`。
+- **新增**：`docs/art/arm-spread-compare.png`（審查後重做一次，見第四節）。
 
 ## 三、雙手劍各格：九問與「我看到」
 
@@ -65,37 +76,37 @@ A 批只做兩件事：
 
 ## 四、比較圖 `docs/art/arm-spread-compare.png`
 
-- 3 欄 × 7 列，每格 720×700（3 倍），同一列三欄高度對齊；整張 2184×5068。
-- 欄頭寫「A 現在（第 16 版）」「B 收回一半」「C 小縫」，沒寫角度數字。
-- 列：法杖正面、法杖背面、杖＋書背面、劍盾正面、劍盾背面（左拳在盾中央）、長槍正面、拄劍正面。
-- A 欄除了劍盾背面那一格，和現在的特寫逐像素相同（`r08_staff_front`、`_back`、`r10_staff-book_back`、`r09_sword-shield_front`、`r03_spear_front`、`r01_gs-plant_front`；只比標題列以下）。
-- 手臂和軀幹之間的背景色，取軀幹那幾列（y −19～−7.5）的最大寬度，量 3 倍特寫的像素：
+第 17 版 A 批審查後重做（審查：C 欄等於貼身、桿子切斷上臂、光暈碰頭、護手壓進軀幹、拄劍列三欄相同）。
 
-| 列 | A | B | C |
-|---|---|---|---|
-| 法杖正面（左／右） | 40／56 | 24／32 | 3／3 |
-| 法杖背面 | 56／40 | 32／24 | 3／3 |
-| 杖＋書背面 | 41／26 | 7／9 | 0／0 |
-| 劍盾正面（右邊是盾） | 56／58 | 32／24 | 3／0 |
-| 劍盾背面（左邊是盾） | 0／56 | 0／32 | 0／3 |
-| 長槍正面 | 42／56 | 26／32 | 3／3 |
-| 拄劍正面 | 0／0 | 0／0 | 0／0 |
+- 3 欄 × 6 列，每格 720×700（3 倍），同一列三欄高度對齊；整張 2184×4420。
+- 欄頭寫「A 現在（第 16 版）」「B 收回一半」「C 小縫」，沒寫角度數字。
+- 列：法杖正面、法杖背面、杖＋書背面、劍盾正面、劍盾背面（左拳在盾中央）、長槍正面。
+- 拄劍那一列拿掉了（三欄相同），圖底下改成一行說明：「拄劍兩手都在劍柄上，不受張開角度影響」。
+- A 欄除了劍盾背面那一格，和現在的特寫逐像素相同（`r08_staff_front`、`_back`、`r10_staff-book_back`、`r09_sword-shield_front`、`r03_spear_front`；只比標題列以下）。
+- 手臂和軀幹之間的背景色寬度，從腋下（y −16.2）到拳頭上緣，每 0.5 單位量一列（3 倍特寫的 px）。中段指手臂中間 y −13.2 那一列：
+
+| 列（張開的手） | B 中段 | B 全程 | C 中段 | C 全程 |
+|---|---|---|---|---|
+| 法杖正面（空手／握杖手） | 24／24 | 11～38 | 2／3 | 1～6（只有腋下那一列 1，其他 2～6） |
+| 法杖背面（空手／握杖手） | 24／24 | 11～38 | 3／2 | 1～6 |
+| 杖＋書背面（拿書手／握杖手） | 24／24 | 8～37 | 2／2 | 1～6（拿書手在書蓋住的地方不量） |
+| 劍盾正面（持劍手） | 20 | 6～38 | 5 | 5～24（`hold` 讓拳頭多往外，護手不壓進軀幹） |
+| 劍盾背面（持劍手） | 20 | 6～38 | 4 | 4～23 |
+| 長槍正面（空手／握槍手） | 24／24 | 11～38 | 2／3 | 1～6 |
 
 我看到（3 倍）：
-- **A 欄**：兩隻手臂從肩膀斜往外下方伸，和軀幹之間是一大塊背景色三角形，看起來像 A 字。
-  - 法杖正面：杖頭光暈的外框和頭髮左上角的外框相接。
-  - 劍盾背面：左拳在圓盾的正中央，深色握把從拳頭兩側穿出；盾在身體左外側，右緣碰到左肩甲下方的軀幹邊。
-- **B 欄**：手臂往外的角度少了一些，拳頭在腰帶外側一點，腋下到拳頭之間是一條細長的背景色三角形，比 A 窄很多。
-  - 法杖正面：光暈的外圈疊到頭髮左上角一點。
-  - 杖＋書背面：手臂和長袍之間只在手肘以下露出一條細縫；書的右緣疊到長袍左緣。
-  - 劍盾正面：盾的左緣碰到右邊的肩甲和軀幹邊。
-  - 劍盾背面：拳頭仍在盾心，盾的右緣疊到軀幹左邊一點。
-- **C 欄**：手臂幾乎沿著軀幹側邊垂下，上臂、前臂的外框和軀幹的外框貼在一起，只有在拳頭和腰之間露出一點背景色（量到 3px）。
-  - 法杖正面：光暈的外圈蓋住頭髮左上角，比 B 多。
-  - 杖＋書背面：手臂疊在長袍上，看不到空隙；書有三分之一左右疊在長袍左緣上。
-  - 劍盾正面：盾蓋到軀幹右緣。
-  - 劍盾背面：拳頭在盾心，盾蓋住軀幹左邊一段；右手的劍貼著右腰。
-- **拄劍正面**：三欄完全一樣。兩手都在胸前握柄，手臂往內收，這個開關不影響拄劍。
+- **A 欄**：兩隻手臂從肩膀斜往外下方伸，和軀幹之間是一大塊背景色三角形，看起來像 A 字。劍盾背面的左拳在圓盾正中央，深色握把從拳頭兩側穿出。
+- **B 欄**：
+  - 肩膀比 A 寬，斜肩接回軀幹。手臂從腋下往外下方斜伸，和軀幹之間從腋下就有背景色，往下越來越寬，手臂中段量到 24px。
+  - 法杖、長槍的桿子從拳頭往外上方斜出去，上臂完整、沒被切斷；杖頭光暈離頭很遠。
+  - 杖＋書背面：書在長袍左外側，右緣碰到長袍邊。
+  - 劍盾正面：盾的左緣碰到右肩甲和軀幹邊。
+- **C 欄**：
+  - 肩膀和 B 一樣寬，兩隻手臂幾乎直垂、和軀幹平行。從腋下到拳頭，手臂和軀幹的外框之間一路有一條細背景色縫，手臂中段量到 2～3px。
+  - 法杖、長槍的桿子從拳頭往外上方斜出去，整段在上臂外側，上臂從肩到拳頭完整；光暈和頭之間隔著一大段背景色。
+  - 杖＋書背面：兩隻紫袖和長袍之間各有一條細縫；書在長袍左外側，右緣貼著長袍邊。
+  - 劍盾正面：持劍手和軀幹之間有 5px 的縫，金色護手和手臂都沒有壓進軀幹邊；盾的左緣疊到軀幹右緣一點。
+  - 劍盾背面：左拳在盾心，盾蓋住軀幹左邊一段；右手和劍在軀幹右外側，中間有縫。
 
 ## 五、鎖格
 
@@ -109,16 +120,15 @@ A 批只做兩件事：
 
 ## 七、要美術 PM 決定
 
-1. **B 欄取 A 和 C 的中間，不是角度減半。**
-   - 角度減半（0.35）時，手臂和軀幹之間只剩拳頭旁 5px 背景色，和 C（3px）幾乎看不出差別，三欄會變成兩種。
-   - 所以 B 取 A 和 C 的中間：從現在往小縫收回一半，角度 0.52。
-   - 如果要照字面「角度減半」，把 `ARM_SPREAD_SET.B` 改成 0.35 重拍比較圖即可。
-2. **C 欄的小縫只出現在拳頭和腰之間。**
-   - 肩膀起點（x ±8.5）在軀幹邊緣（±7.5）裡面，手臂只靠轉角度往外，所以空隙是從腋下往下慢慢變寬的三角形。
-   - 要讓 2～4px 的空隙從上臂一路到拳頭，得把肩膀往外移，不能只改角度。B 批要不要這樣做，請決定。
-3. **B 批套用 B 或 C 時，下面這些要一起處理（這批照規定沒動）：**
-   - 法杖正面的光暈會疊到頭髮；
-   - 杖＋書背面的手臂會和長袍疊在一起、空隙很小或沒有，書也會疊到長袍；
-   - 劍盾正面、背面的盾會碰到或蓋到身體。
-4. **拄劍正面放在比較圖裡，三欄都一樣。** 拄劍是兩手在胸前握柄，不受張開角度影響。
+1. **B 欄是 A 和 C 的中間，不是角度減半。** 肩膀和 C 一樣外移，角度取 A 和 C 的中間（0.375）。角度減半、肩膀不動時，手臂幾乎貼身，和 C 分不出來。
+2. **C 欄的肩膀比第 16 版寬。**
+   - 要讓縫從腋下一路到拳頭，肩膀得往外移 3.93 單位，再用斜肩接回軀幹。
+   - 從正面、背面看，人變得比較寬肩。這是全程留縫的代價，要不要接受請決定。
+3. **縫寬不是每一列都在 2～4px。**
+   - C 欄大部分在 2～4px：腋下第一列只有 1px，腋下稍下和腰的一兩列 5～6px。原因是軀幹的圓角和長袍斜邊。
+   - 持劍手為了不讓護手壓進軀幹，多往外一點（`hold`），縫在拳頭附近比較寬。
+4. **B 批套用時，還要一起處理這幾件事（這批照規定沒動）：**
+   - 法杖、長槍往外傾以後，桿尾會斜到腳邊；
+   - 杖＋書背面的書會碰到長袍；
+   - 劍盾正面、背面的盾會碰到或蓋到軀幹。
 5. **其他文件裡還有這個詞。** `武器待機移植需求.md`、`Q版回歸評估.md` 和舊版修正清單裡還有第二種雙手劍姿勢的字樣，這批沒碰（不在 A 批要改的清單裡）。其中 `武器待機移植需求.md` 寫的是「使用者定案：不做」，意思和這批一致。
